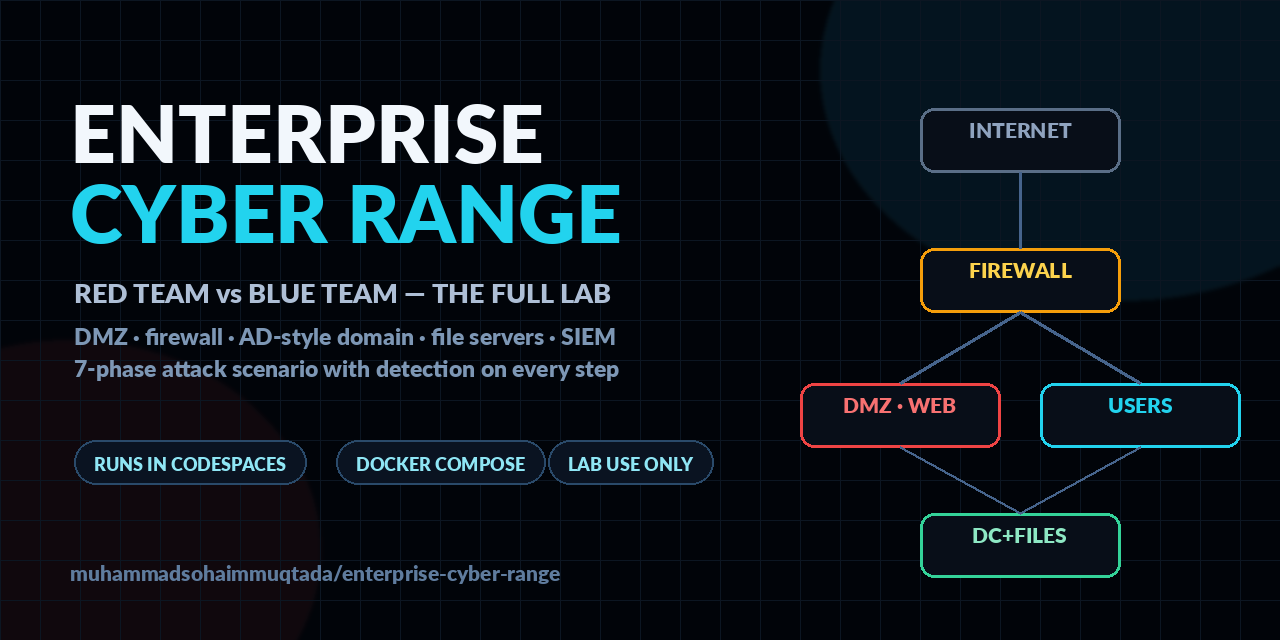
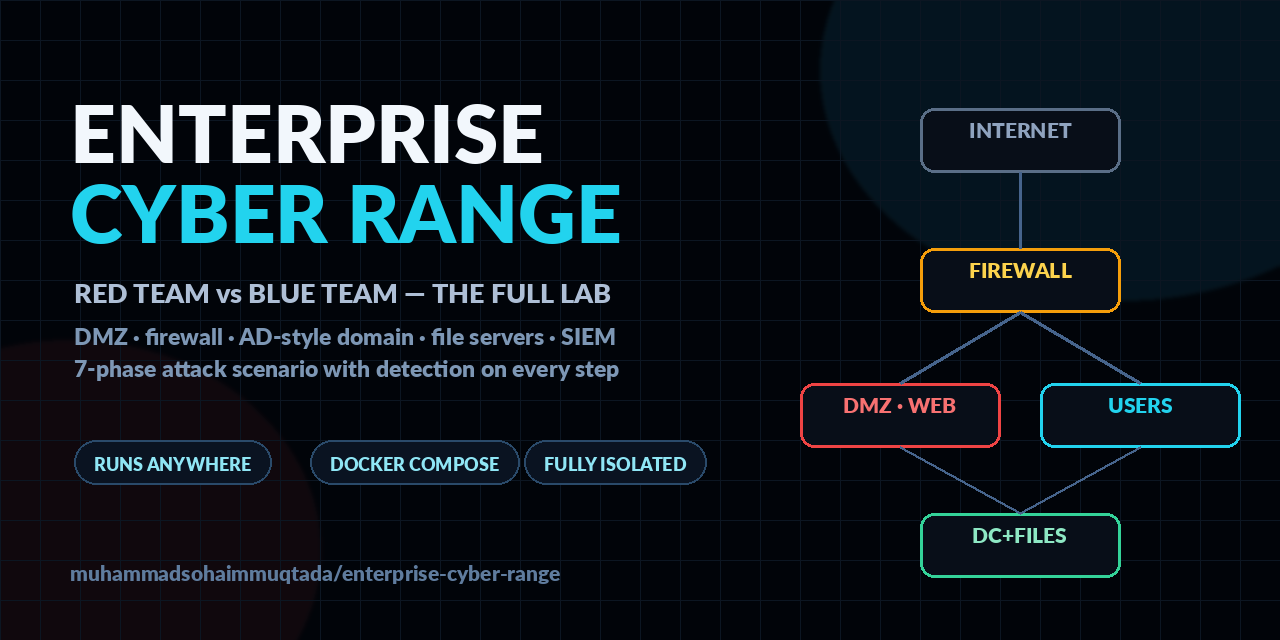
Make the stack presentation environment-generic: Docker-first quickstart, Codespaces demoted to optional test bench

Changed region(s): [[0.0938, 0.6875, 0.5625, 0.7812]]

diff --git a/README.md b/README.md
@@ -52,26 +52,23 @@ A single `fw` container routes between all four segments and enforces the video'
 
 ## 🚀 Quickstart
 
-**GitHub Codespaces (recommended — nothing to install locally):**
-
-1. Open this repo → **Code** → **Codespaces** → **Create codespace**.
-2. In the terminal: `make up` — the whole range builds and starts inside the Codespace VM (docker-in-docker is preconfigured).
-3. `make status` — verify every service is healthy and view the live firewall counters.
-4. Open [`scenario/PHASE-0-setup.md`](scenario/PHASE-0-setup.md) and begin.
-
-**Local machine (Linux with Docker):**
+**Requirements:** any environment with Docker Engine ≥ 24 and Docker Compose v2, x86_64, ~6 GB free RAM (+4 GB if you enable the SIEM profile). Your laptop, a home server, a VM, a cloud instance — the range is fully self-contained and runs identically everywhere; it never touches the host network beyond Docker itself.
 
 ```bash
 git clone https://github.com/muhammadsohaimmuqtada/enterprise-cyber-range.git
 cd enterprise-cyber-range
 cp .env.example .env
-make up          # bring up the full range
-make status      # health + firewall counters
+make up          # build and start the full range
+make status      # service health + live firewall counters
 ```
 
-Optional blue-team stack (adds Wazuh SIEM, needs ~4 GB RAM): `make blue`.
+Then open [`scenario/PHASE-0-setup.md`](scenario/PHASE-0-setup.md) and begin.
 
-> Reference configuration, validated with `docker compose config` and reviewed end-to-end, but not pre-run on every platform. Target: x86_64, Docker Engine ≥ 24, ~6 GB free RAM (4 GB more with the SIEM profile).
+Optional blue-team stack (adds the Wazuh SIEM, ~4 GB RAM): `make blue`.
+
+**No Docker on the machine in front of you?** Any throwaway Linux VM works — and a GitHub Codespace on this repo is preconfigured as one (docker-in-docker included), so it doubles as an isolated test bench. The lab itself neither knows nor cares where it runs.
+
+> Reference configuration, validated with `docker compose config` and reviewed end-to-end, but not pre-run on every platform. If a service misbehaves on your first boot, open an issue with the output of `make status`.
 
 ## ⚔ The scenario — seven phases, both sides of the board
 

diff --git a/scenario/PHASE-0-setup.md b/scenario/PHASE-0-setup.md
@@ -70,7 +70,7 @@ there is nothing else to snapshot.
 - **Isolated lab** — every host runs inside the compose project's private
   bridge networks; nothing here touches a real network.
 - **Authorization** — you only attack machines you own, built from this
-  repository, on your own machine or Codespace.
+  repository — your own machine, a VM, or any host with Docker.
 - **Defensive goal** — every attacker action has a matching defender view;
   each phase ends with "what the blue team sees".
 

diff --git a/fw/README.md b/fw/README.md
@@ -73,7 +73,7 @@ docker exec fw dmesg | grep FW-                            # kernel log (best ef
 
 Every deny rule carries a `counter`, so `nft -a list chain ...` shows packet
 and byte counts per rule — that is the deterministic blue-team signal in any
-environment, including GitHub Codespaces.
+environment — anywhere Docker runs.
 
 ## Where the proxy/WAF and NGFW would slot in
 
